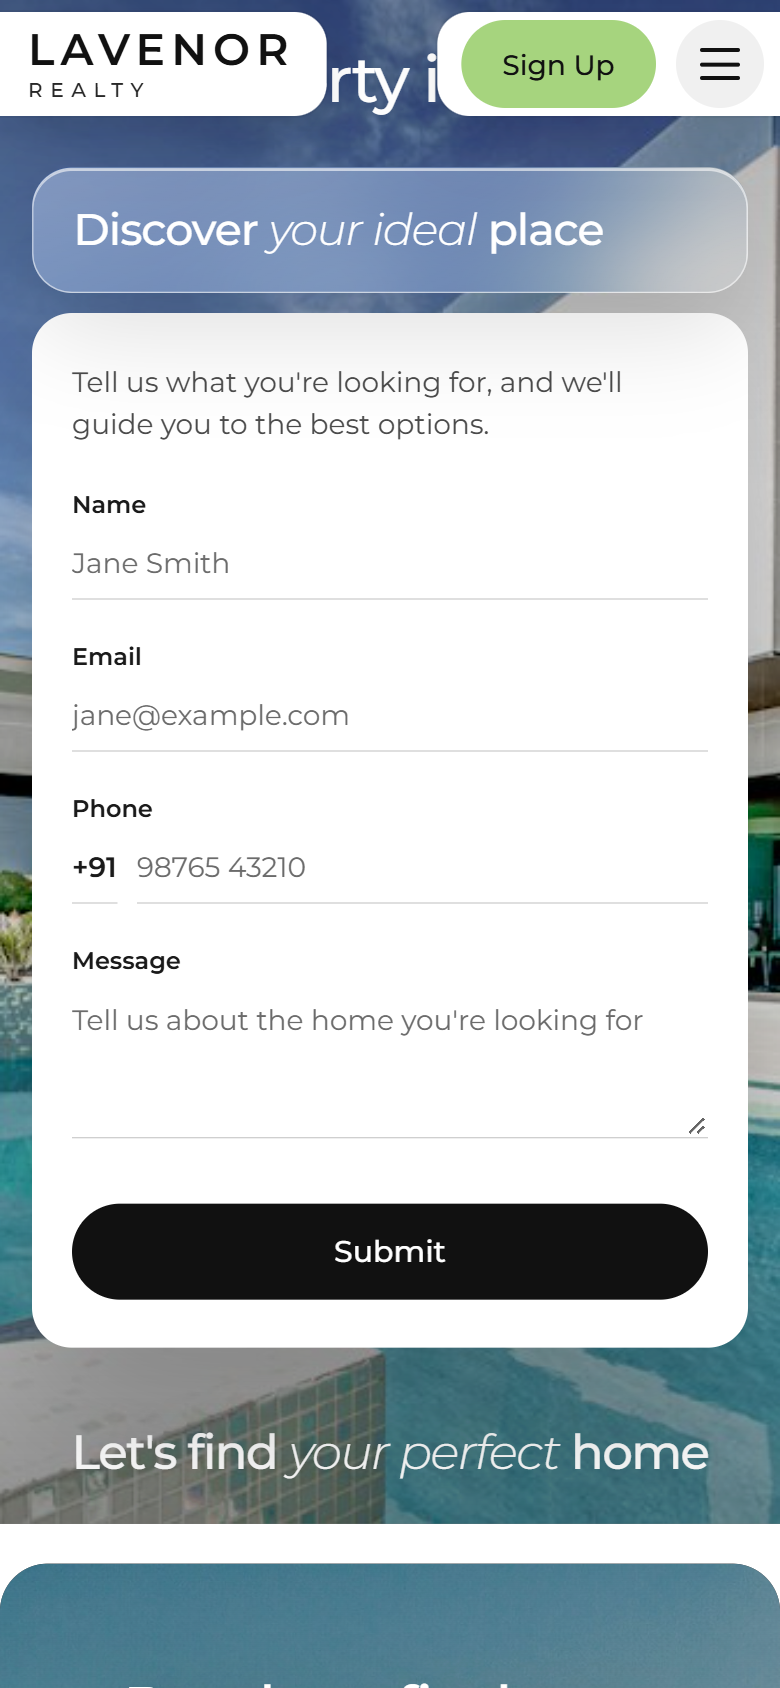
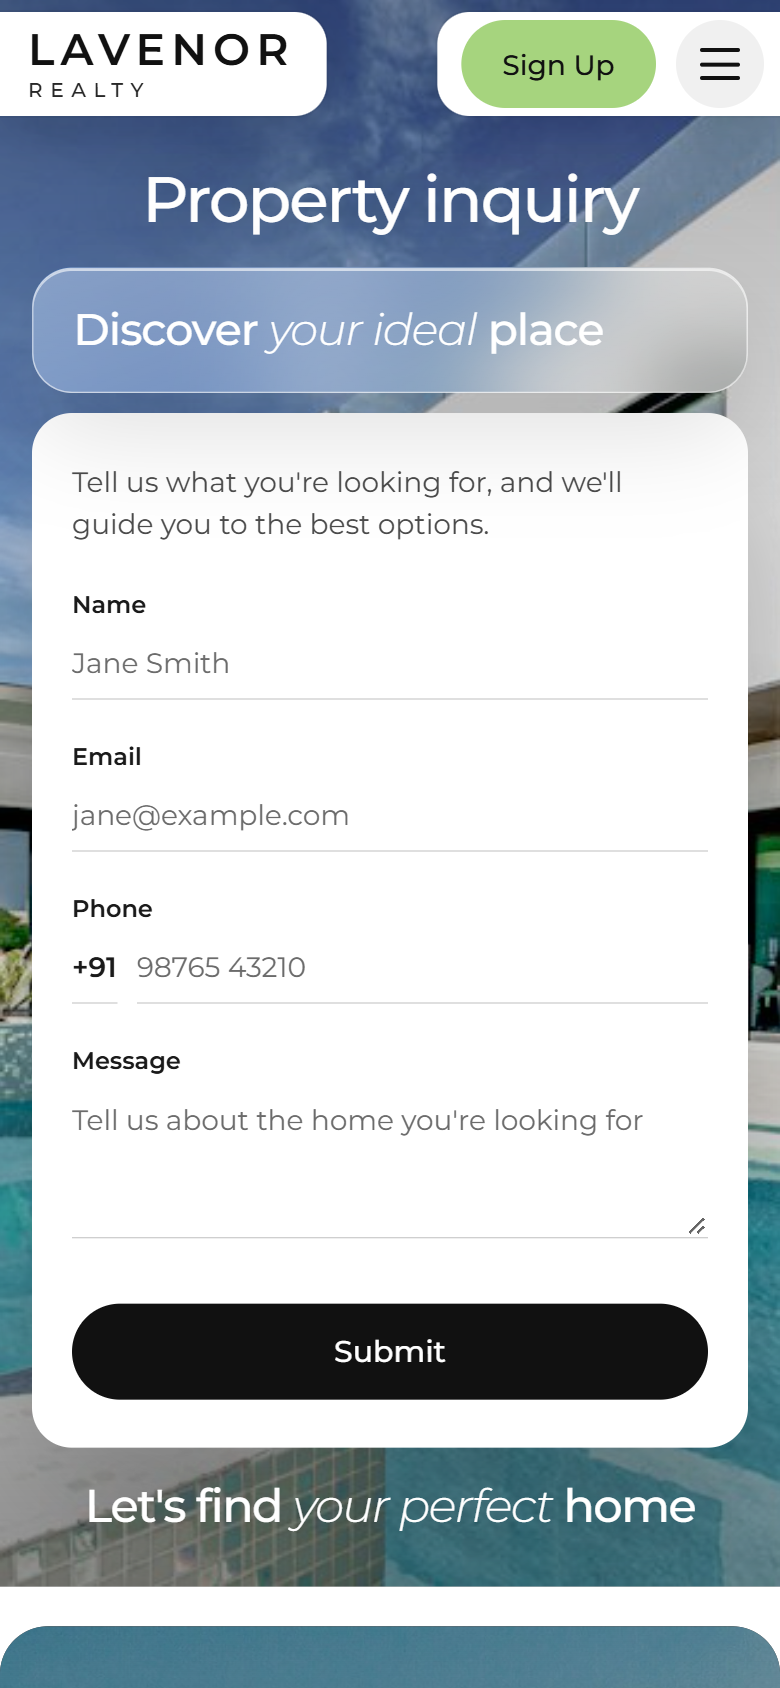
Inquiry band: titles and card stack in flow below the header zone

diff --git a/design/prototype/style.css b/design/prototype/style.css
@@ -867,20 +867,20 @@ legend { padding: 0; }
 /* ---------- inquiry ---------- */
 .inquiry { padding: 0; } /* full bleed: one viewport, edge to edge, so the header bookmarks sit flush on it */
 .inquiry__frame {
-	position: relative; display: flex; align-items: center; justify-content: center;
-	min-height: max(100svh, 760px); margin: 0; padding: 150px 40px;
+	position: relative; display: flex; flex-direction: column; align-items: center; justify-content: space-between; gap: 24px;
+	min-height: max(100svh, 760px); margin: 0; padding: calc(var(--wp--custom--header--height) + 18px) 40px 40px;
 	border-radius: 0; overflow: hidden;
 	background: var(--wp--preset--color--contrast); color: var(--wp--preset--color--base);
 }
 .inquiry__bg { position: absolute; inset: 0; width: 100%; height: 100%; object-fit: cover; object-position: center 70%; }
 .inquiry__shade { position: absolute; inset: 0; background: linear-gradient(180deg, rgba(0, 0, 0, 0.28) 0%, rgba(0, 0, 0, 0.04) 32%, rgba(0, 0, 0, 0.04) 68%, rgba(0, 0, 0, 0.38) 100%); }
 .inquiry__title, .inquiry__tag {
-	position: absolute; left: 50%; transform: translateX(-50%);
+	position: relative; z-index: 1; margin: 0; text-align: center;
 	font-weight: 500; line-height: 1; letter-spacing: -0.03em; white-space: nowrap;
-	text-shadow: 0 2px 30px rgba(0, 0, 0, 0.25); pointer-events: none;
+	text-shadow: 0 2px 30px rgba(0, 0, 0, 0.25);
 }
-.inquiry__title { top: 34px; font-size: clamp(40px, 5.6vw, 84px); }
-.inquiry__tag { bottom: 30px; font-size: clamp(32px, 5.2vw, 78px); }
+.inquiry__title { font-size: clamp(36px, 4.8vw, 72px); }
+.inquiry__tag { font-size: clamp(30px, 4.6vw, 68px); }
 .inquiry__tag em, .inquiry__glass-text em { font-style: italic; font-weight: 300; }
 .inquiry__card { position: relative; z-index: 1; display: grid; grid-template-columns: 320px 360px; gap: 16px; }
 .inquiry__glass {
@@ -1382,9 +1382,9 @@ legend { padding: 0; }
 	.faq__team { margin-top: 22px; }
 	.faq__q { gap: 16px; padding: 18px 20px; font-size: 17px; }
 	.faq__a p { padding: 0 20px 20px; font-size: 14px; }
-	.inquiry__frame { min-height: 0; padding: 84px 16px 88px; }
-	.inquiry__title { top: 24px; font-size: 32px; }
-	.inquiry__tag { bottom: 24px; font-size: 24px; }
+	.inquiry__frame { min-height: 0; gap: 18px; padding: calc(var(--wp--custom--header--height) + 12px) 16px 28px; }
+	.inquiry__title { font-size: 32px; }
+	.inquiry__tag { font-size: 23px; }
 	.inquiry__card { grid-template-columns: 1fr; width: 100%; gap: 10px; }
 	.inquiry__glass { padding: 18px 20px; }
 	.inquiry__glass-text { font-size: 22px; }
